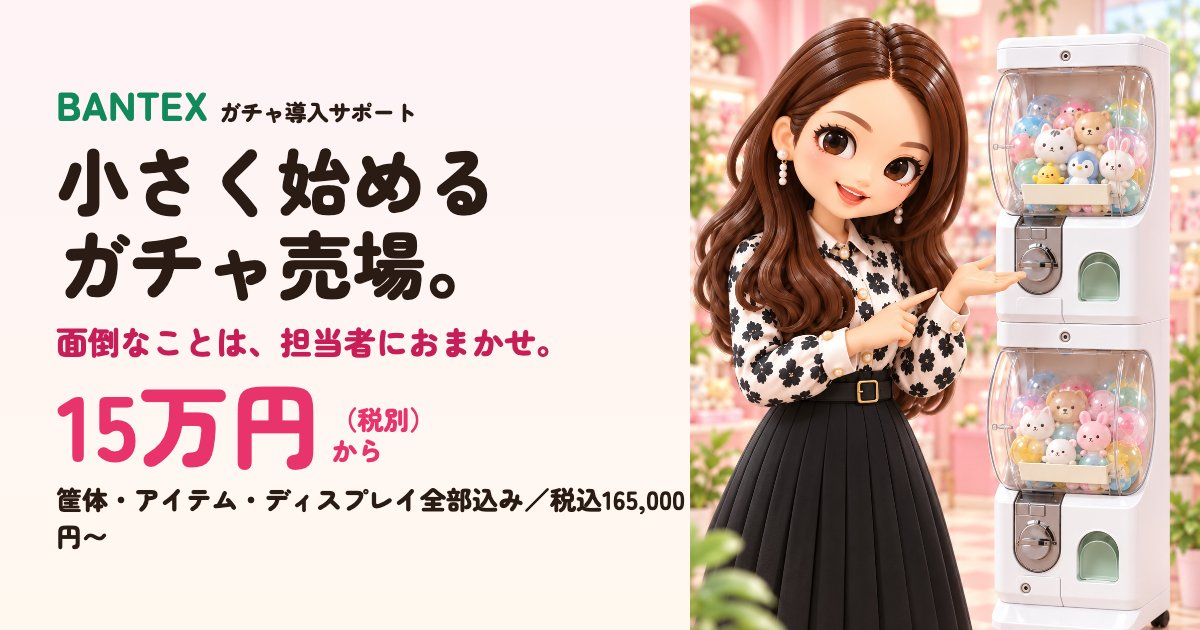
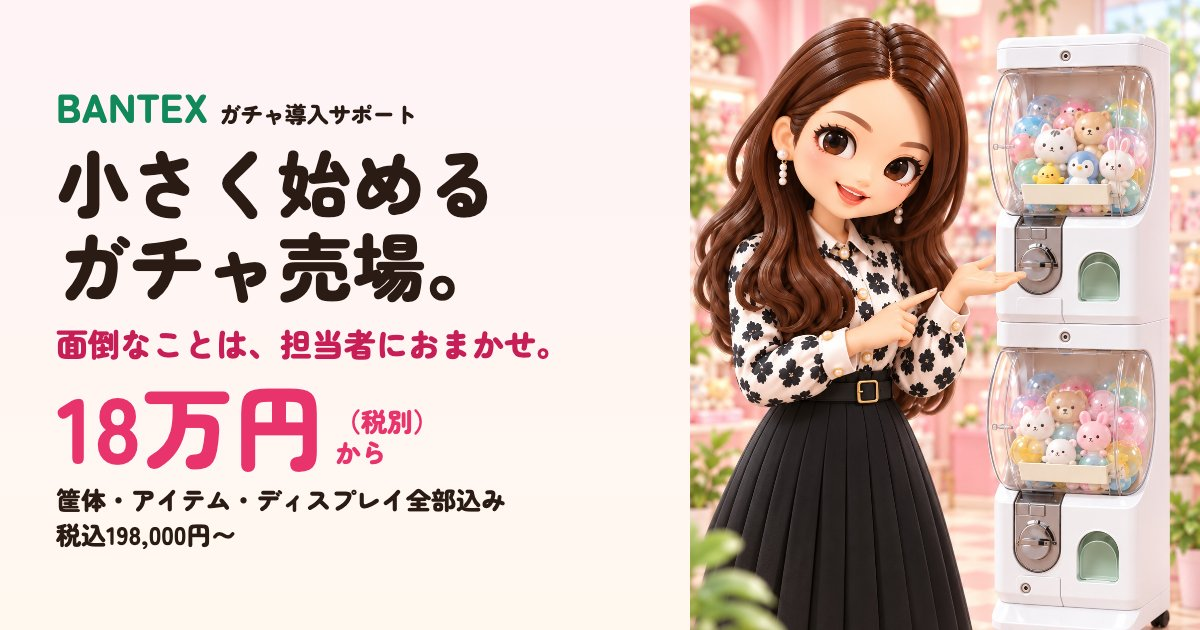
価格を18万円（税別）から・税込198,000円〜に統一
- 料金枠、費用、よくある質問、注意書き、題名・説明、共有画像を18万円に更新
- 「担当者にまとめて任せられる」を説明文に追加（筐体の価格は打ち出さない）
- 補充費用と収支シミュレーションの条件は前回のまま

diff --git a/index.html b/index.html
@@ -3,13 +3,13 @@
 <head>
 <meta charset="utf-8">
 <meta name="viewport" content="width=device-width, initial-scale=1, viewport-fit=cover">
-<title>小さく始めるガチャ売場｜おまかせスタート全部込み15万円（税別）から｜BANTEX</title>
-<meta name="description" content="お店・施設の空きスペースを、ワクワクする売場に。筐体・アイテム・ディスプレイ、おまかせスタート全部込み15万円（税別）から。担当者が付くので安心。LINEで相談できます。">
+<title>小さく始めるガチャ売場｜おまかせスタート全部込み18万円（税別）から｜BANTEX</title>
+<meta name="description" content="お店・施設の空きスペースを、ワクワクする売場に。筐体・アイテム・ディスプレイ、おまかせスタート全部込み18万円（税別）から。担当者にまとめて任せられます。LINEで相談できます。">
 <link rel="canonical" href="https://gacha.bantex.jp/">
 <meta property="og:type" content="website">
 <meta property="og:site_name" content="BANTEX ガチャ導入サポート">
 <meta property="og:title" content="小さく始めるガチャ売場。面倒なことは、担当者におまかせ。｜BANTEX">
-<meta property="og:description" content="筐体・アイテム・ディスプレイ、おまかせスタート全部込み15万円（税別）から。税込165,000円〜。">
+<meta property="og:description" content="筐体・アイテム・ディスプレイ、おまかせスタート全部込み18万円（税別）から。税込198,000円〜。担当者にまとめて任せられます。">
 <meta property="og:url" content="https://gacha.bantex.jp/">
 <meta property="og:image" content="https://gacha.bantex.jp/img/og.jpg">
 <meta name="twitter:card" content="summary_large_image">
@@ -356,8 +356,8 @@
         <div class="p-main">
           <span class="p-tag">筐体・アイテム・ディスプレイ</span>
           <p class="p-lead">おまかせスタート全部込み</p>
-          <p class="p-price"><span class="big">15万円</span><span class="sm">（税別）<br>から</span></p>
-          <p class="p-tax">税込165,000円〜</p>
+          <p class="p-price"><span class="big">18万円</span><span class="sm">（税別）<br>から</span></p>
+          <p class="p-tax">税込198,000円〜</p>
         </div>
         <div class="p-pack">
           <span class="ttl">パッケージ内容</span>
@@ -427,7 +427,7 @@
       <div class="sec-head">
         <span class="kicker">サポート</span>
         <h2><span class="nb">担当者が付くので</span><span class="nb">安心！</span></h2>
-        <p>ガチャを始めるときに手間がかかるところは、担当者がまとめて引き受けます。</p>
+        <p>ディスプレイデザインから保守サポートまで、手間がかかるところは担当者にまとめて任せられます。</p>
       </div>
       <ul class="support">
         <li><img src="img/icon-design.png" width="256" height="256" alt=""><h3>ディスプレイデザイン</h3><p>台紙やPOPなど、売場の見せ方をデザインします。</p></li>
@@ -520,13 +520,13 @@
     <div class="wrap">
       <div class="sec-head">
         <span class="kicker"><b>3</b>費用</span>
-        <h2><span class="nb">おまかせスタート</span><span class="nb">全部込み15万円（税別）から</span></h2>
-        <p>最初に必要なものは、まとめてご用意します。2回目以降の商品の追加は、購入ごとにお支払いいただきます。</p>
+        <h2><span class="nb">おまかせスタート</span><span class="nb">全部込み18万円（税別）から</span></h2>
+        <p>最初に必要なものをまとめてご用意し、準備から運営の相談まで担当者にまとめて任せられます。2回目以降の商品の追加は、購入ごとにお支払いいただきます。</p>
       </div>
       <div class="cost-grid">
         <div class="cost-card main">
           <h3>初回：おまかせスタート</h3>
-          <p class="amount">15万円（税別）から<small>税込165,000円〜</small></p>
+          <p class="amount">18万円（税別）から<small>税込198,000円〜</small></p>
           <ul>
             <li>上下2台の筐体1ボックス</li>
             <li>初回商品2種類・計80個</li>
@@ -651,7 +651,7 @@
         <h2>よくある質問</h2>
       </div>
       <div class="faq">
-        <details><summary>15万円（税別）には何が含まれますか？</summary><p>上下2台の筐体1ボックス、初回商品2種類・計80個、ディスプレイデザイン、導入サポート、基本送料です。標準商品・基本配送地域のプランで、遠隔地・特殊設置・オリジナル制作・修理部品は別途お見積りです。</p></details>
+        <details><summary>18万円（税別）には何が含まれますか？</summary><p>上下2台の筐体1ボックス、初回商品2種類・計80個、ディスプレイデザイン、導入サポート、基本送料です。標準商品・基本配送地域のプランで、遠隔地・特殊設置・オリジナル制作・修理部品は別途お見積りです。</p></details>
         <details><summary>商品を追加するときの費用は？</summary><p>購入ごとに、基本管理費1万円（税別）と商品代、送料がかかります。基本管理費は月額ではありません。少量ずつの追加では費用が売上を上回ることがあるので、売価と追加する数は担当者と相談して決めます。</p></details>
         <details><summary>利益は出ますか？</summary><p>売上は置く場所の人通りで大きく変わります。人通りが少ない場所や少量の追加では、赤字になることがあります。上の収支シミュレーションで、費用を含めた目安を確かめられます。売上や利益を保証するものではありません。</p></details>
         <details><summary>どれくらいの広さが必要ですか？</summary><p>目安は幅60cm×奥行100cm（前に立つスペース込み）です。通路は別に確保してください。メーカーが保証する最低寸法ではないので、置く場所は担当者と確認します。</p></details>
@@ -685,7 +685,7 @@
       <div>
         <h3>ご注意</h3>
         <ul>
-          <li>価格は税別です（15万円は税込165,000円）。</li>
+          <li>価格は税別です（18万円は税込198,000円）。</li>
           <li>売上や利益を保証するものではありません。</li>
           <li>「ガシャポン」は株式会社バンダイの登録商標です。</li>
         </ul>

diff --git a/README.md b/README.md
@@ -3,5 +3,5 @@
 公開URL: https://gacha.bantex.jp/
 
 - 小さなお店・施設向けの「小さく始めるガチャ売場」案内ページ（静的HTML、GitHub Pages）。
-- おまかせスタート全部込み15万円（税別）から。追加商品は購入ごとに基本管理費1万円（税別）＋商品代＋送料。
+- おまかせスタート全部込み18万円（税別）から（税込198,000円〜）。追加商品は購入ごとに基本管理費1万円（税別）＋商品代＋送料。
 - 数字の出典はページ下部に記載。問い合わせはLINE（https://lin.ee/6LG4sNV）。
